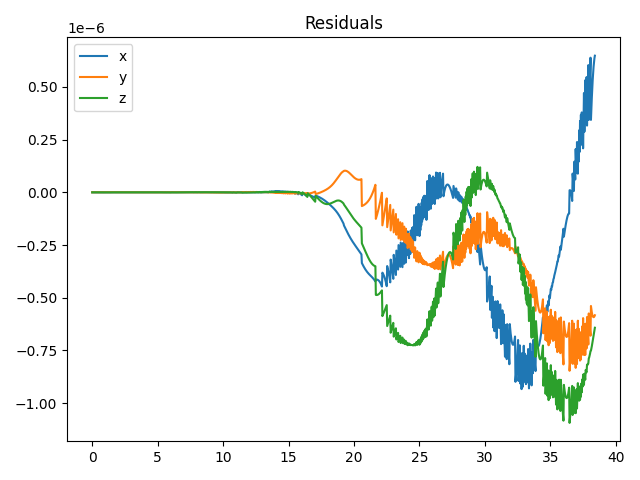
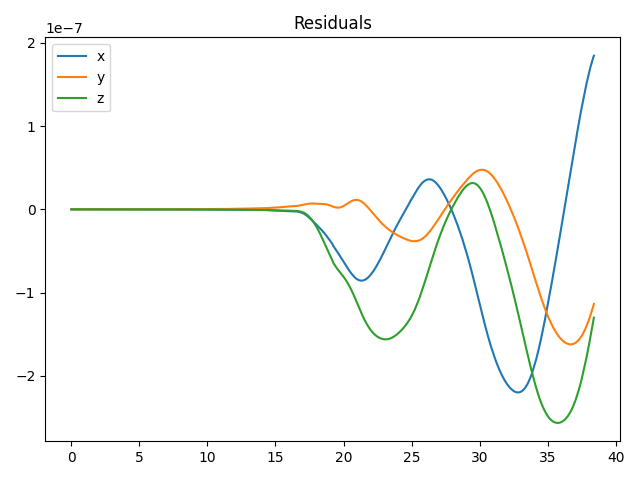
Rewrote fit.py to fit closer to perigee for l=3

diff --git a/code/fit_resolved/fit.py b/code/fit_resolved/fit.py
@@ -35,8 +35,8 @@ logging.basicConfig(level=logging.INFO)
 PLOT_POSES = True
 NUM_MINIMIZE_POINTS = 8#48
 DISTANCE_RATIO_CUTS = [
-    [2.0, -1.0],
-    [2.0, -1.0]
+    [2.0, None],
+    [1.01, None]
 ]
 
 GM = 3.986004418e14
@@ -117,23 +117,23 @@ def fit_function(theta, target_length=None):
     if ASTEROIDS_MAX_K == 3:
         if ASTEROIDS_MAX_J == 0:
             resolved_data = asteroids_0_3.simulate(cadence, jlms, theta[1:], radius,
-                spin[0], spin[1], spin[2], theta[0], perigee, speed, GM, EARTH_RADIUS, -1)
+                spin[0], spin[1], spin[2], theta[0], perigee, speed, GM, EARTH_RADIUS, 0, False)
         elif ASTEROIDS_MAX_J == 2:
             resolved_data = asteroids_2_3.simulate(cadence, jlms, theta[1:], radius,
-                spin[0], spin[1], spin[2], theta[0], perigee, speed, GM, EARTH_RADIUS, -1)
+                spin[0], spin[1], spin[2], theta[0], perigee, speed, GM, EARTH_RADIUS, 0, False)
         elif ASTEROIDS_MAX_J == 3:
             resolved_data = asteroids_3_3.simulate(cadence, jlms, theta[1:], radius,
-                spin[0], spin[1], spin[2], theta[0], perigee, speed, GM, EARTH_RADIUS, -1)
+                spin[0], spin[1], spin[2], theta[0], perigee, speed, GM, EARTH_RADIUS, 0, False)
     elif ASTEROIDS_MAX_K == 2:
         if ASTEROIDS_MAX_J == 0:
             resolved_data = asteroids_0_2.simulate(cadence, jlms, theta[1:], radius,
-                spin[0], spin[1], spin[2], theta[0], perigee, speed, GM, EARTH_RADIUS, -1)
+                spin[0], spin[1], spin[2], theta[0], perigee, speed, GM, EARTH_RADIUS, 0, False)
         elif ASTEROIDS_MAX_J == 2:
             resolved_data = asteroids_2_2.simulate(cadence, jlms, theta[1:], radius,
-                spin[0], spin[1], spin[2], theta[0], perigee, speed, GM, EARTH_RADIUS, -1)
+                spin[0], spin[1], spin[2], theta[0], perigee, speed, GM, EARTH_RADIUS, 0, False)
         elif ASTEROIDS_MAX_J == 3:
             resolved_data = asteroids_3_2.simulate(cadence, jlms, theta[1:], radius,
-                spin[0], spin[1], spin[2], theta[0], perigee, speed, GM, EARTH_RADIUS, -1)
+                spin[0], spin[1], spin[2], theta[0], perigee, speed, GM, EARTH_RADIUS, 0, False)
     if target_length is not None:
         while len(resolved_data)//3 < target_length:
             resolved_data.append(resolved_data[-3])
@@ -184,18 +184,20 @@ np.save(f"{output_name}-unc.npy", y_inv_covs)
 logging.info(f"DOF: {len(y)}")
 
 def get_data_cut(drc):
+    enforce_drc = False if drc is None else True
+    drc = 0 if drc is None else drc
     if ASTEROIDS_MAX_J == 0:
         return len(asteroids_0_2.simulate(cadence, jlms, theta_true[1:], radius,
             spin[0], spin[1], spin[2], theta_true[0], perigee, speed, GM, EARTH_RADIUS,
-            drc))//3
+            drc, enforce_drc))//3
     elif ASTEROIDS_MAX_J == 2:
         return len(asteroids_2_2.simulate(cadence, jlms, theta_true[1:], radius,
             spin[0], spin[1], spin[2], theta_true[0], perigee, speed, GM, EARTH_RADIUS,
-            drc))//3
+            drc, enforce_drc))//3
     elif ASTEROIDS_MAX_J == 3:
         return len(asteroids_3_2.simulate(cadence, jlms, theta_true[1:], radius,
             spin[0], spin[1], spin[2], theta_true[0], perigee, speed, GM, EARTH_RADIUS,
-            drc))//3
+            drc, enforce_drc))//3
     raise Exception("Cannot handle this J.")
 
 data_cuts = [[get_data_cut(drc) for drc in tier] for tier in DISTANCE_RATIO_CUTS]
@@ -224,8 +226,11 @@ plt.show()
 
 def minimize_function(theta, simulate_func, l_index, cut_index):
     drc = DISTANCE_RATIO_CUTS[l_index][cut_index]
+    enforce_drc = False if drc is None else True
+
+    drc = 0 if drc is None else drc
     resolved_data = simulate_func(cadence, jlms, theta[1:], radius,
-        spin[0], spin[1], spin[2], theta[0], perigee, speed, GM, EARTH_RADIUS, drc)
+        spin[0], spin[1], spin[2], theta[0], perigee, speed, GM, EARTH_RADIUS, drc, enforce_drc)
     
     want_length = data_cuts[l_index][cut_index]
     while len(resolved_data)//3 < want_length:
@@ -258,9 +263,28 @@ def minimize_log_prob(float_theta, fix_theta, simulate_func, l_index, cut_index)
     want_length = data_cuts[l_index][cut_index]
     for i in range(want_length):
         chisq += np.matmul(y[i] - model[i], np.matmul(y_inv_covs[i], y[i] - model[i]))
+
     return chisq
 
-logging.info("TRUE REDCHI: {}".format(minimize_log_prob(theta_true, [], asteroids_0_2.simulate, 0, -1) / len(y) / 3))
+
+if ASTEROIDS_MAX_K == 3:
+    if ASTEROIDS_MAX_J == 0:
+        real_sim_func = asteroids_0_3.simulate
+    elif ASTEROIDS_MAX_J == 2:
+        real_sim_func = asteroids_2_3.simulate
+    elif ASTEROIDS_MAX_J == 3:
+        real_sim_func = asteroids_3_3.simulate
+elif ASTEROIDS_MAX_K == 2:
+    if ASTEROIDS_MAX_J == 0:
+        real_sim_func = asteroids_0_2.simulate
+    elif ASTEROIDS_MAX_J == 2:
+        real_sim_func = asteroids_2_2.simulate
+    elif ASTEROIDS_MAX_J == 3:
+        real_sim_func = asteroids_3_2.simulate
+
+
+logging.info("TRUE REDCHI: {}".format(minimize_log_prob(theta_true, [], real_sim_func, -1, -1) / len(y) / 3))
+
 
 def get_minimum(arg):
     point, fix_theta, l, bounds = arg
@@ -301,7 +325,9 @@ def get_minimum(arg):
                 'maxcor': 10,
                 'maxfun': 15000})'''
 
-        bfgs_min = optimize.minimize(minimize_log_prob_cut, point, method='Nelder-Mead')
+        bfgs_min = optimize.minimize(minimize_log_prob_cut, point, method='Nelder-Mead', options={
+            'maxiter': 200 * len(point),
+        })
 
         point = bfgs_min.x
 
@@ -459,7 +485,7 @@ for i, num_fits in enumerate(NUM_FITS):
     for fix_theta, evals, evecs, _ in queue:
         tier_results = minimize(i+2, num_fits, fix_theta)
         for result_theta, result_evals, result_evecs, result_redchi in tier_results:
-            logging.info("Deg {} redchi: {}".format(i, result_redchi))
+            logging.info("Deg {} redchi: {}. Theta: {}".format(i, result_redchi, result_theta))
             new_queue.append((fix_theta + list(result_theta), evals + list(result_evals),
                 evecs + list(result_evecs), result_redchi))
     queue = new_queue
@@ -621,7 +647,7 @@ for index in range(len(kernel)):
         burnin = int(2 * np.max(tau))
         thin = int(0.5 * np.min(tau))
     except:
-        logging.warning("Could not find autocorrelation time because the chain is too short.")
+        logging.warning("MCMC did not converge")
         thin = DEFAULT_THIN
         burnin = 1000
 

diff --git a/code/sim/backend.cpp b/code/sim/backend.cpp
@@ -7,10 +7,10 @@ const int max_j = (ASTEROIDS_MAX_J + 1) * (ASTEROIDS_MAX_J + 1);
 
 Asteroid::Asteroid(const cdouble* jlms, const cdouble* klms, double asteroid_radius,
     Vector3 spin, double initial_roll, double perigee, double speed, double central_mu,
-    double central_radius, double distance_ratio_cut) :
+    double central_radius, double distance_ratio_cut, bool enforce_drc) :
     jlms(jlms), klms(klms), asteroid_radius(asteroid_radius), distance_ratio_cut(distance_ratio_cut),
-    mu(central_mu), central_radius(central_radius), pericenter_pos(perigee), excess_vel(speed), initial_spin(spin),
-    initial_roll(initial_roll) {
+    enforce_drc(enforce_drc), mu(central_mu), central_radius(central_radius), pericenter_pos(perigee),
+    excess_vel(speed), initial_spin(spin), initial_roll(initial_roll) {
 
     for (int i = 0; i < (ASTEROIDS_MAX_K + 1) * (ASTEROIDS_MAX_K + 1); i++) {
         klmcs[i] = klms[i].conj();
@@ -320,16 +320,20 @@ int Asteroid::simulate(double cadence, std::vector<double>& resolved_data) {
         * Quaternion(cos(gamma / 2), 0, 0, sin(gamma / 2));
     Vector3 spin = Vector3::z() * initial_spin.mag();
 
-    const double expire_distance = distance_ratio_cut * distance_ratio_cut * pericenter_pos * pericenter_pos;
+    const double expire_distance_sqr = distance_ratio_cut * distance_ratio_cut * pericenter_pos * pericenter_pos;
 
     double time;
     for (time = MIN_DT-expire_time; time+MIN_DT < expire_time; time += dt) {
         if (!extract_pos(time, position, velocity)) {
             throw std::runtime_error("Simulation ran out of bounds");
         }
-        if (distance_ratio_cut > 0 && position.mag2() > expire_distance &&
-            Vector3::dot(position, velocity) > 0) {
-            break;
+        if (enforce_drc) {
+            if (distance_ratio_cut > 0 && position.mag2() > expire_distance_sqr && Vector3::dot(position, velocity) > 0) {
+                break;
+            }
+            if (distance_ratio_cut <= 0 && position.mag2() < expire_distance_sqr && Vector3::dot(position, velocity) < 0) {
+                break;
+            }
         }
 
         get_derivatives(position, spin, quat, dspin1, dquat1);

diff --git a/code/fit_resolved/main.cpp b/code/fit_resolved/main.cpp
@@ -8,7 +8,7 @@
 std::vector<double> simulate(double cadence, const std::vector<double> jlms_raw,
     const std::vector<double> klms_raw,  double radius, double spinx, double spiny, double spinz,
     double initial_roll, double perigee, double speed, double central_mu, double central_radius,
-    double distance_ratio_cut=-1) {
+    double distance_ratio_cut=0, double enforce_drc=false) {
 
     std::vector<cdouble> halfjlms;
     auto jlm_raw_iter = jlms_raw.begin();
@@ -70,8 +70,8 @@ std::vector<double> simulate(double cadence, const std::vector<double> jlms_raw,
     }
 
 
-    Asteroid asteroid(jlms, klms, radius, Vector3({spinx, spiny, spinz}),
-        initial_roll, perigee, speed, central_mu, central_radius, distance_ratio_cut);
+    Asteroid asteroid(jlms, klms, radius, Vector3({spinx, spiny, spinz}), initial_roll, perigee,
+        speed, central_mu, central_radius, distance_ratio_cut, enforce_drc);
 
     // Run asteroid
     std::vector<double> resolved_data;

diff --git a/code/sim/backend.hpp b/code/sim/backend.hpp
@@ -37,7 +37,7 @@ class Asteroid {
 public:
     Asteroid(const cdouble* jlms, const cdouble* klms, const double asteroid_radius,
         Vector3 spin, double initial_roll, double perigee, double speed,
-        double central_mu, double central_radius, double distance_ratio_cut);
+        double central_mu, double central_radius, double distance_ratio_cut, bool enforce_drc);
 
     int simulate(double cadence, std::vector<double>& resolved_data);
 
@@ -63,6 +63,7 @@ private:
     cdouble klmcs[(ASTEROIDS_MAX_K + 1) * (ASTEROIDS_MAX_K + 1)];
     double asteroid_radius;
     double distance_ratio_cut;
+    bool enforce_drc;
 
     cdouble coeffs_x[COEFF_LENGTH];
     cdouble coeffs_y[COEFF_LENGTH];

diff --git a/code/generate/main.cpp b/code/generate/main.cpp
@@ -143,7 +143,7 @@ int main(int argc, char* argv[]) {
 
 
     // Load asteroid
-    Asteroid asteroid(&jlms[0], &klms[0], radius, spin, initial_roll, impact_parameter, speed, 6.67e-11 * 5.97e24, 6371000, -1);
+    Asteroid asteroid(&jlms[0], &klms[0], radius, spin, initial_roll, impact_parameter, speed, 6.67e-11 * 5.97e24, 6371000, 0, false);
 
     // Run asteroid
     std::vector<double> resolved_data;
